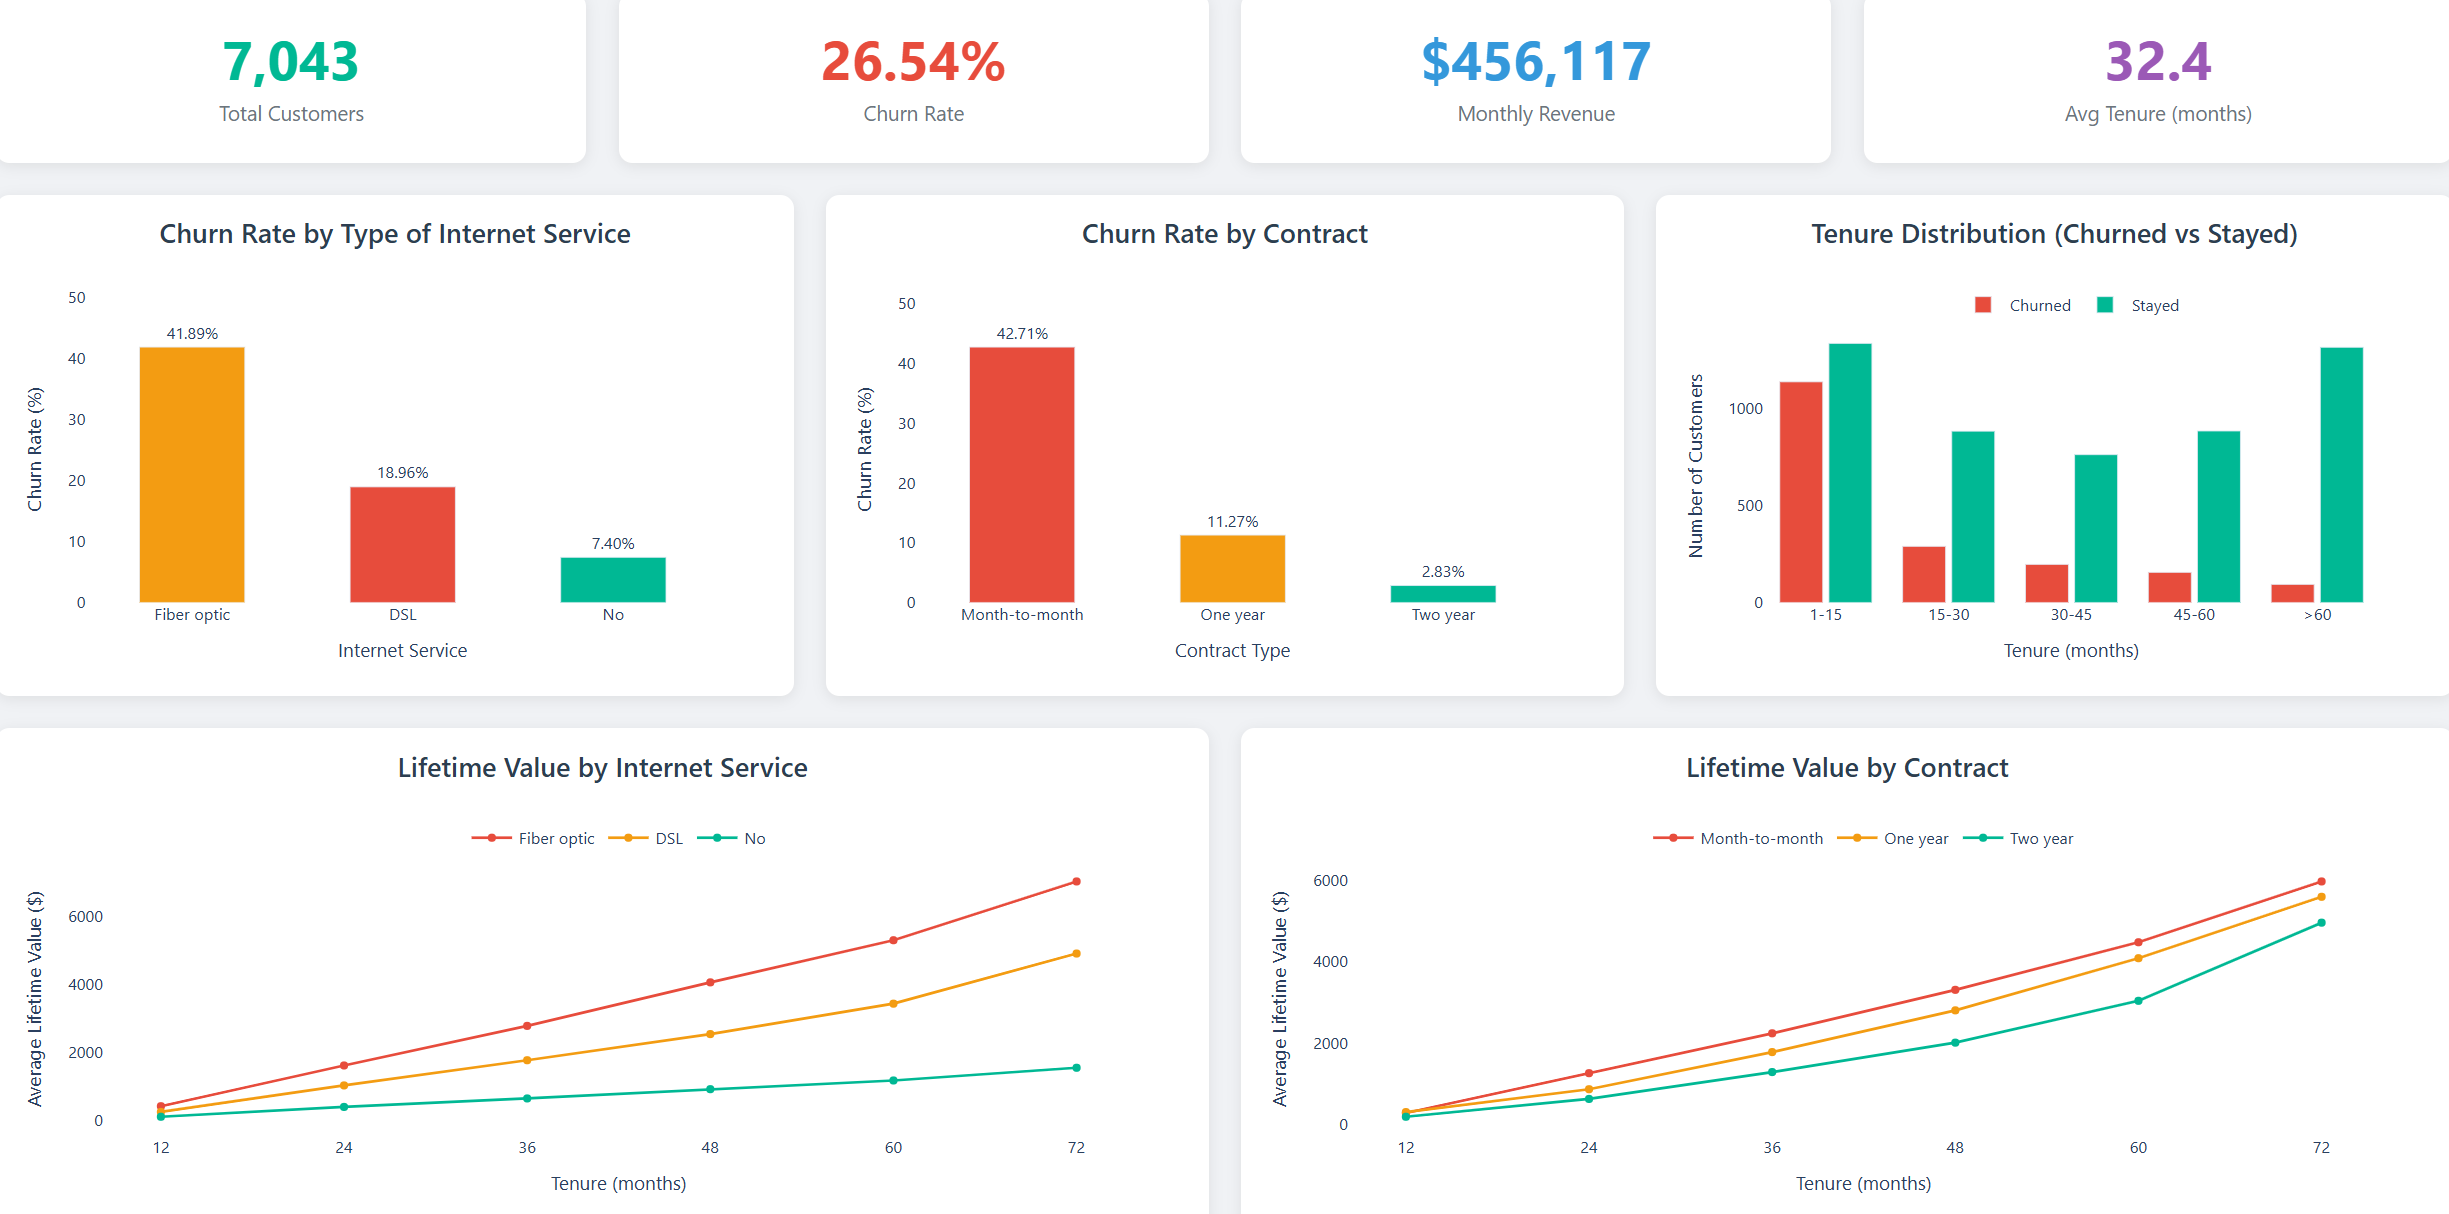
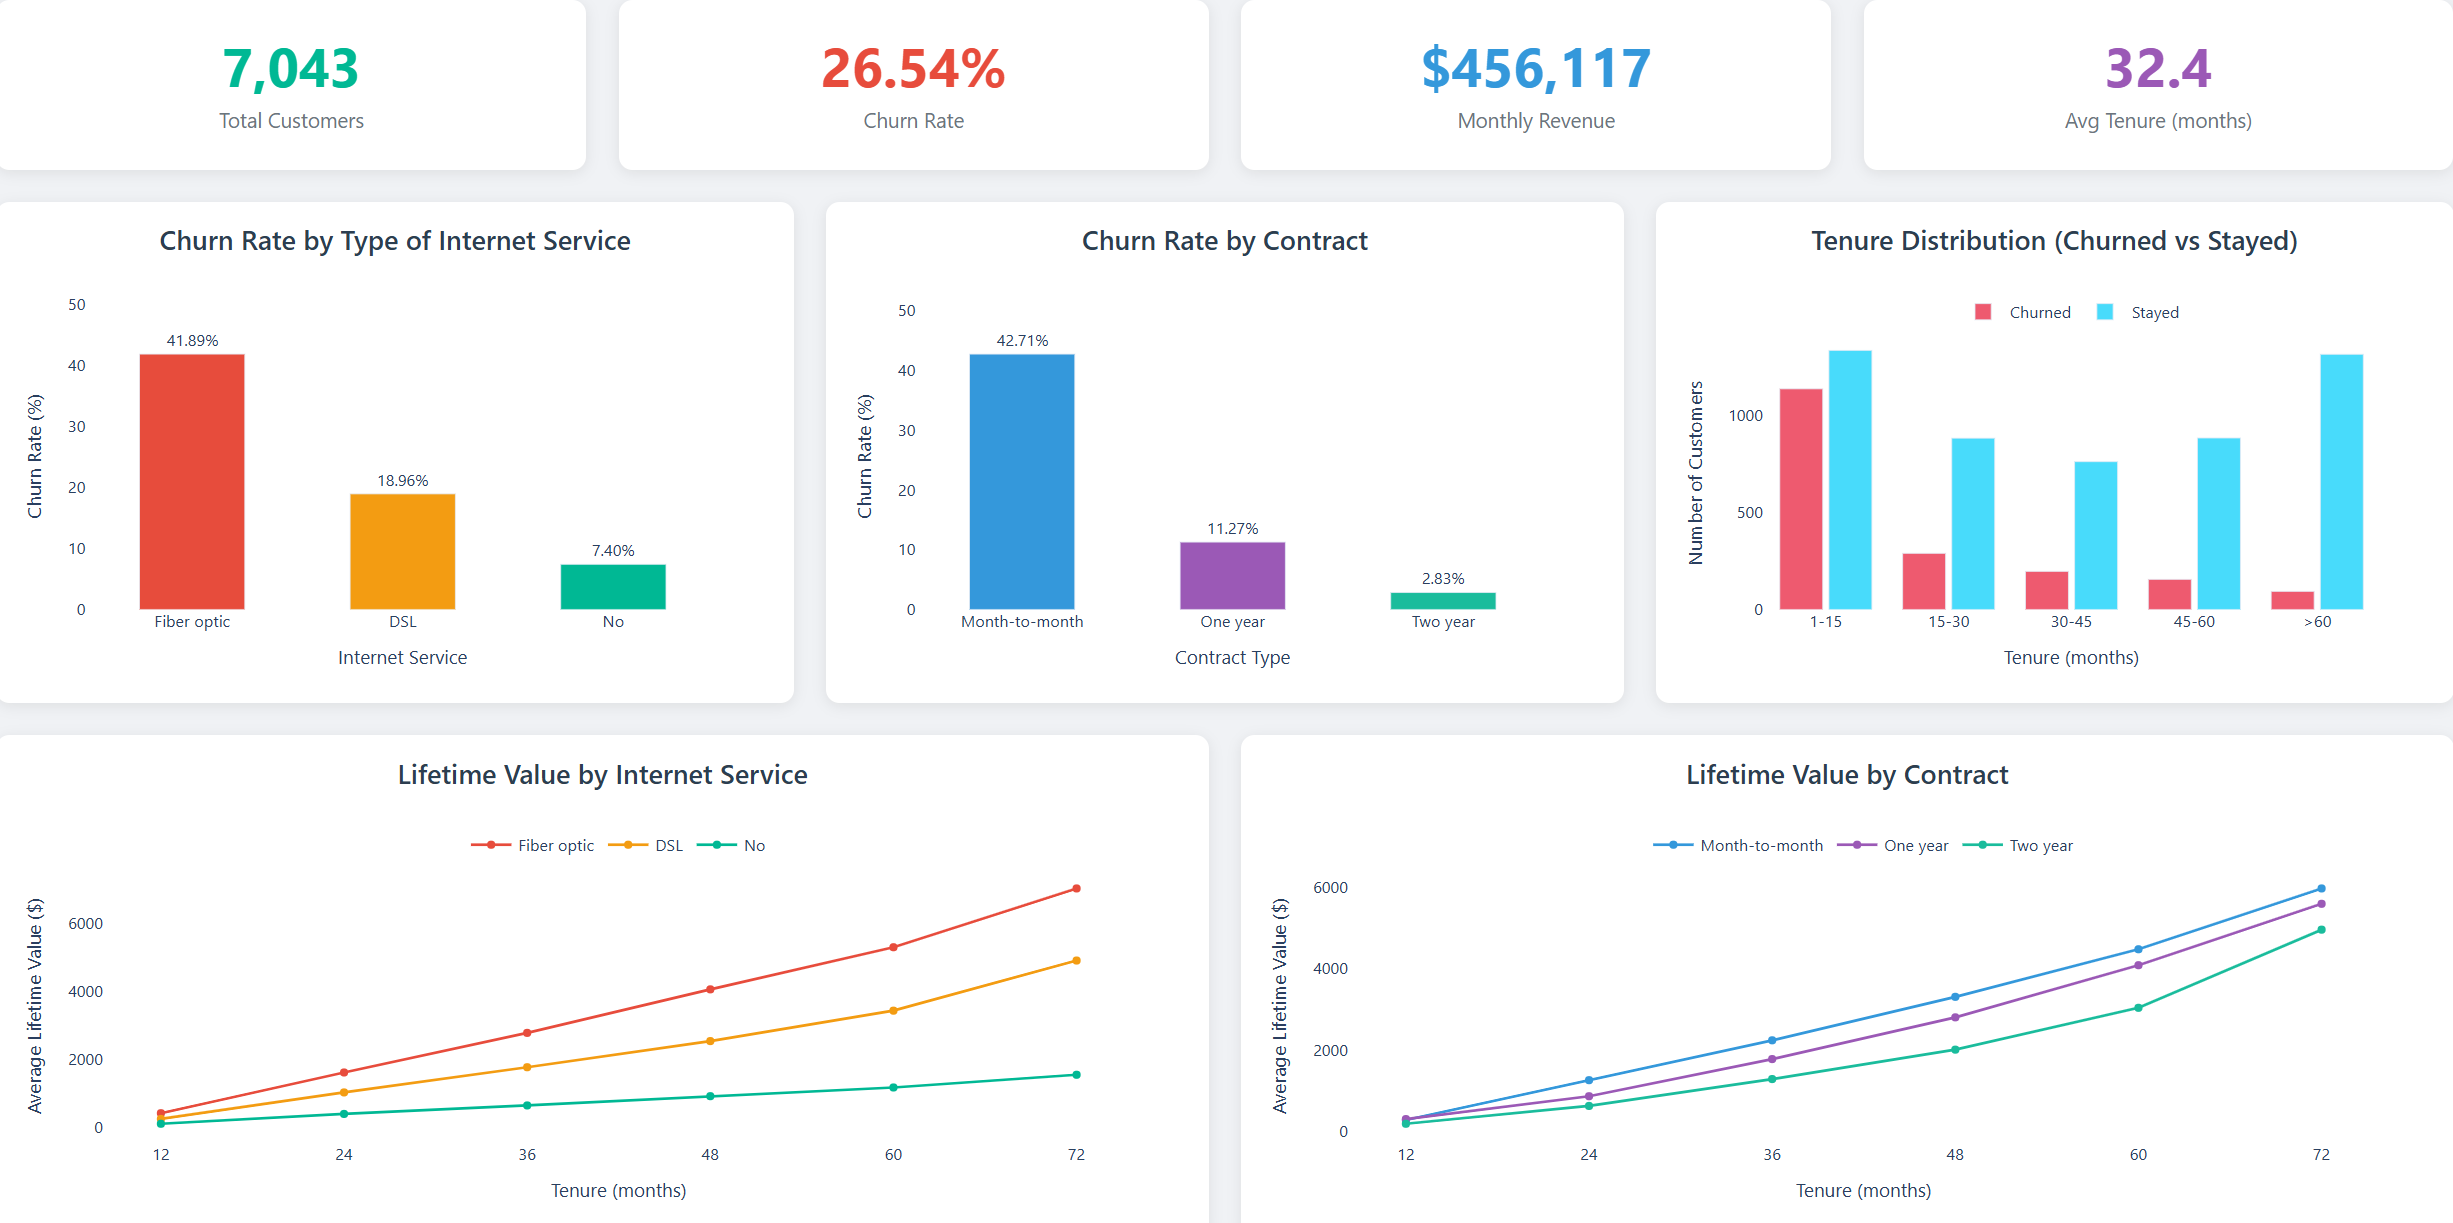
Replace demo image

diff --git a/churn_dashboard.py b/churn_dashboard.py
@@ -63,7 +63,8 @@ def create_churn_by_internet_chart(df):
     )
     internet_churn = internet_churn.sort_values('InternetService')
     
-    colors = ['#f39c12', '#e74c3c', '#00B894']
+    # Consistent colors: Fiber optic=red, DSL=orange, No=green
+    colors = ['#e74c3c', '#f39c12', '#00B894']
     
     fig = go.Figure(data=[
         go.Bar(
@@ -106,7 +107,8 @@ def create_churn_by_contract_chart(df):
     )
     contract_churn = contract_churn.sort_values('Contract')
     
-    colors = ['#e74c3c', '#f39c12', '#00B894']
+    # Distinct colors: Month-to-month=blue, One year=purple, Two year=teal
+    colors = ['#3498db', '#9b59b6', '#1abc9c']
     
     fig = go.Figure(data=[
         go.Bar(
@@ -147,11 +149,12 @@ def create_tenure_histogram(df):
     
     fig = go.Figure()
     
+    # Distinct colors: Churned=salmon/rose, Stayed=sky blue
     fig.add_trace(go.Bar(
         x=labels,
         y=churned.values,
         name='Churned',
-        marker_color='#e74c3c',
+        marker_color='#ee5a6f',
         width=0.35
     ))
     
@@ -159,7 +162,7 @@ def create_tenure_histogram(df):
         x=labels,
         y=stayed.values,
         name='Stayed',
-        marker_color='#00B894',
+        marker_color='#48dbfb',
         width=0.35
     ))
     
@@ -195,7 +198,7 @@ def create_ltv_by_internet_service_chart(df):
     # Calculate average TotalCharges (as LTV proxy) by tenure bin and internet service
     ltv_data = df_copy.groupby(['TenureBin', 'InternetService'], observed=True)['TotalCharges'].mean().reset_index()
     
-    # Colors for each internet service
+    # Consistent colors: Fiber optic=red, DSL=orange, No=green
     colors = {
         'Fiber optic': '#e74c3c',
         'DSL': '#f39c12',
@@ -246,11 +249,11 @@ def create_ltv_by_contract_chart(df):
     # Calculate average TotalCharges (as LTV proxy) by tenure bin and contract
     ltv_data = df_copy.groupby(['TenureBin', 'Contract'], observed=True)['TotalCharges'].mean().reset_index()
     
-    # Colors for each contract type
+    # Distinct colors: Month-to-month=blue, One year=purple, Two year=teal
     colors = {
-        'Month-to-month': '#e74c3c',
-        'One year': '#f39c12',
-        'Two year': '#00B894'
+        'Month-to-month': '#3498db',
+        'One year': '#9b59b6',
+        'Two year': '#1abc9c'
     }
     
     fig = go.Figure()
